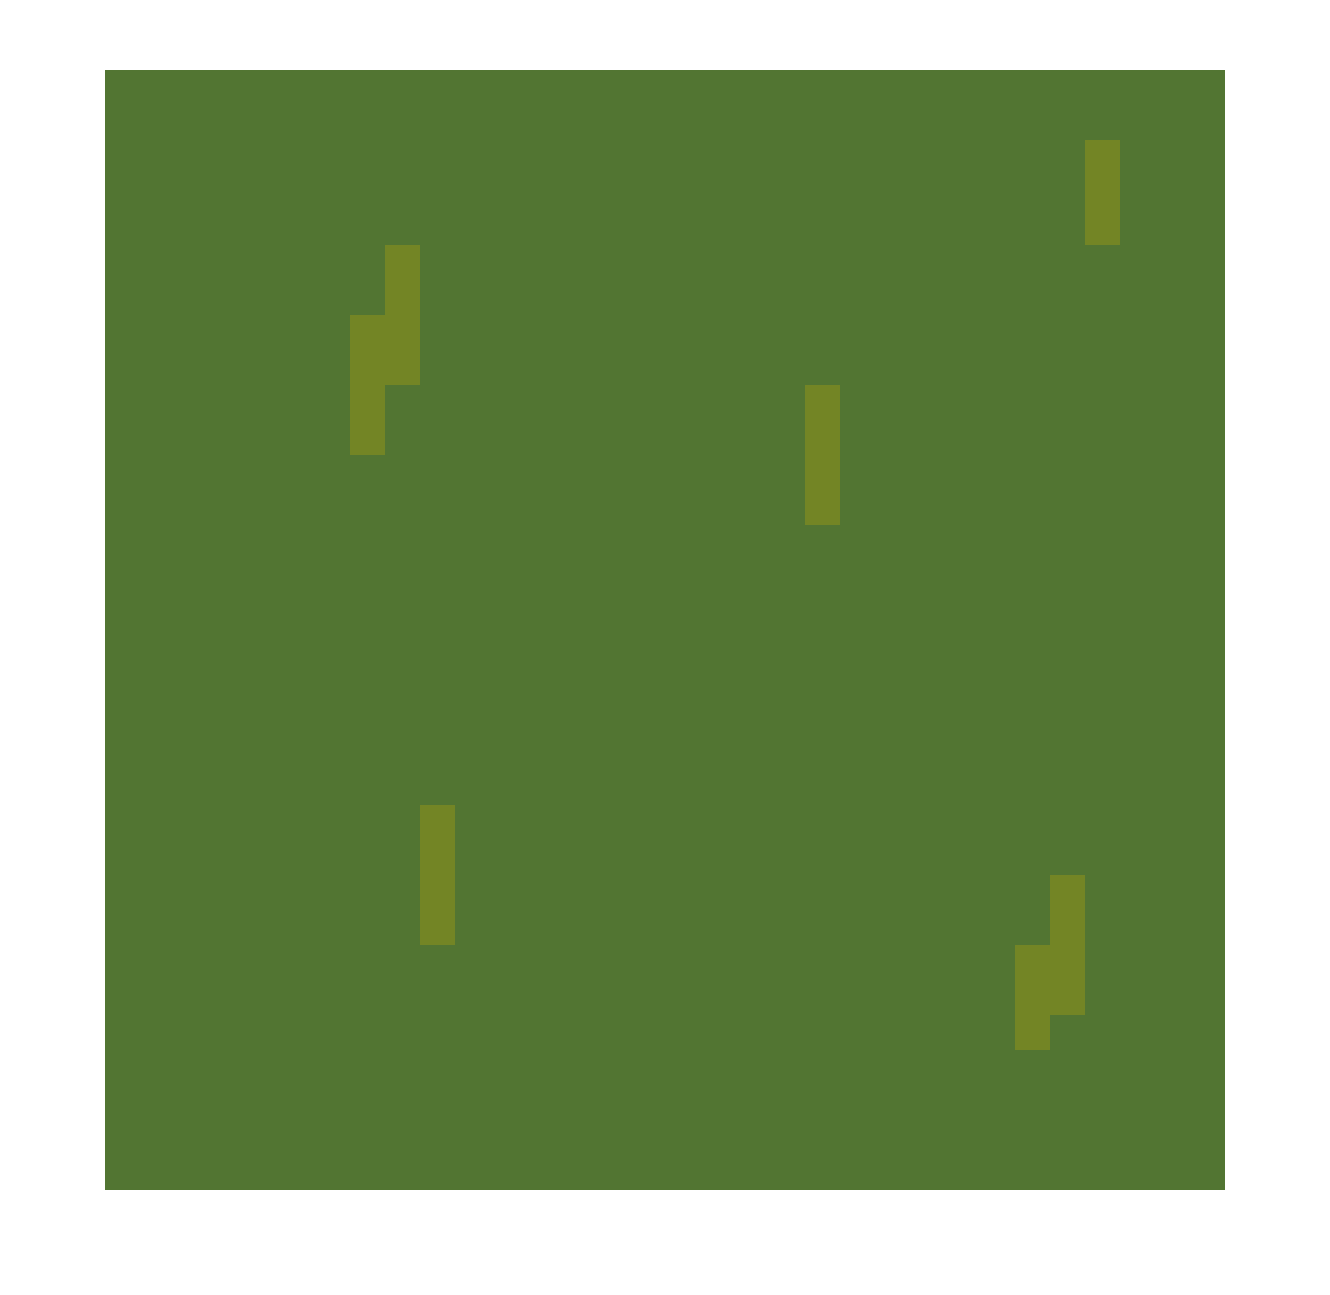
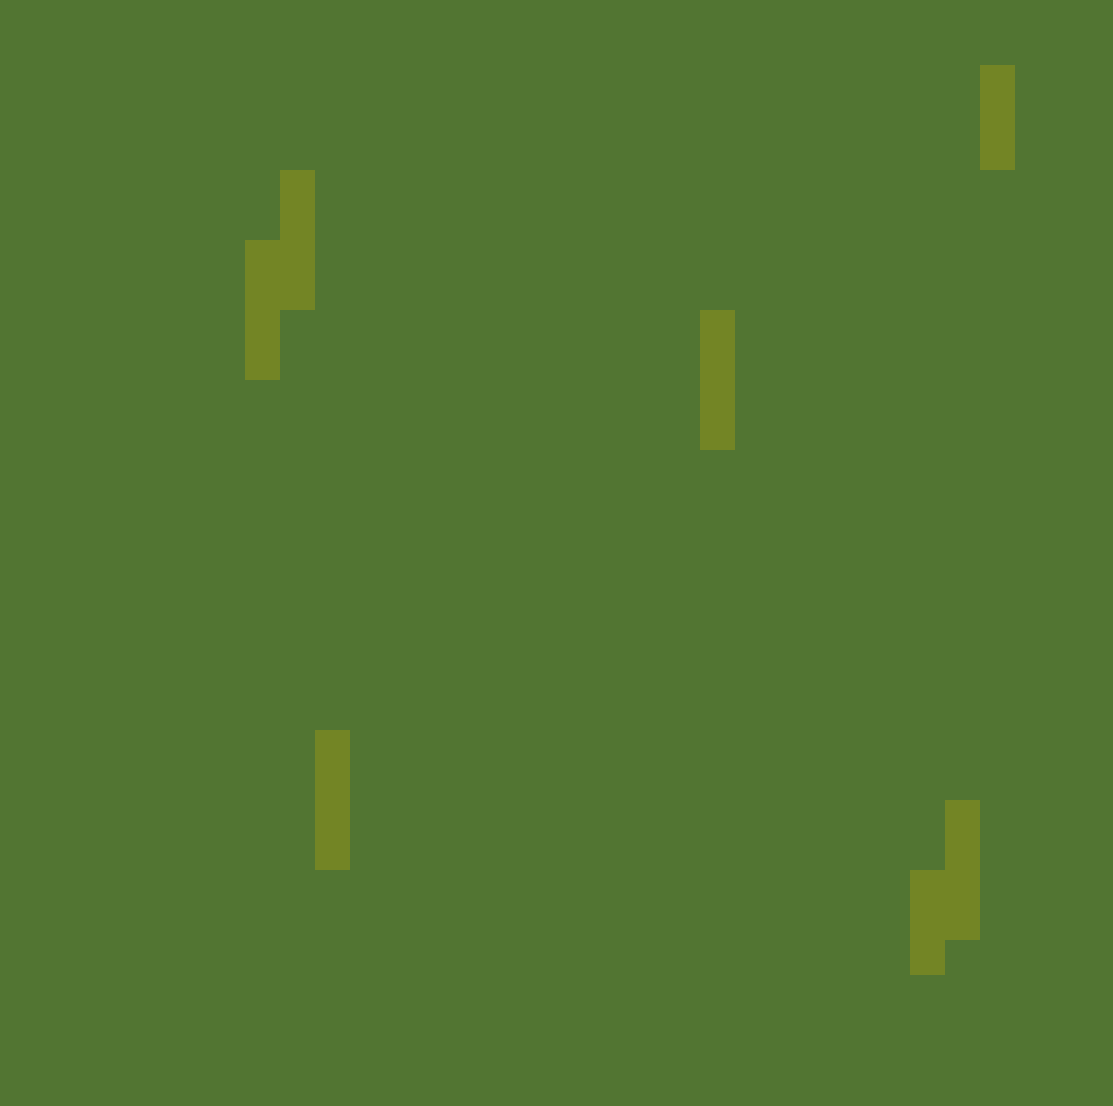
start to hook

diff --git a/game.c b/game.c
@@ -6,53 +6,102 @@
 /*   By: linhnguy <linhnguy@hive.student.fi>        +#+  +:+       +#+        */
 /*                                                +#+#+#+#+#+   +#+           */
 /*   Created: 2024/02/27 15:40:22 by linhnguy          #+#    #+#             */
-/*   Updated: 2024/02/27 15:47:16 by linhnguy         ###   ########.fr       */
+/*   Updated: 2024/03/02 16:47:15 by linhnguy         ###   ########.fr       */
 /*                                                                            */
 /* ************************************************************************** */
 
 #include "so_long.h"
 
-// Print the window width and height.
-static void ft_hook(void* param)
-{
-	const mlx_t* mlx = param;
+// static void ft_hook(void* param)
+// {
+// 	const mlx_t* mlx = param;
 
-	printf("WIDTH: %d | HEIGHT: %d\n", mlx->width, mlx->height);
-}
+// 	printf("WIDTH: %d | HEIGHT: %d\n", mlx->width, mlx->height);
+// }
 
 	static void ft_error(void)
 {
 	fprintf(stderr, "%s", mlx_strerror(mlx_errno));
 	exit(EXIT_FAILURE);
 }
-bool open_game(char **map)
+
+void put_image(mlx_t *mlx, t_images data, char **map)
 {
+	int i;
+	int	j;
+	
+	i = 0;
+	mlx_image_to_window(mlx, data.grass, 0, 0);
+	while (map[i])
+	{
+		j = 0;
+		while (map[i][j])
+		{
+			if (map[i][j] == '1')
+				mlx_image_to_window(mlx, data.tree, j * WIDTH, i * HEIGHT);
+			else if (map[i][j] == 'P')
+				mlx_image_to_window(mlx, data.slime, j * WIDTH, i * HEIGHT);
+			else if (map[i][j] == 'C')
+				mlx_image_to_window(mlx, data.potion, j * WIDTH, i * HEIGHT);
+			else if (map[i][j] == 'E')
+				mlx_image_to_window(mlx, data.exit, j * WIDTH, i * HEIGHT);
+			j++;
+		}
+		i++;
+	}
+}
+
+void my_keyhook(mlx_key_data_t keydata, void* param)
+{
+	if (!param)
+		printf("false/n");
+	if (keydata.key == MLX_KEY_W && keydata.action == MLX_PRESS)
+		printf("Move up\n");
+	if (keydata.key == MLX_KEY_A && keydata.action == MLX_RELEASE)
+		printf("Move left\n");
+	if (keydata.key == MLX_KEY_D && keydata.action == MLX_REPEAT)
+		printf("Move right\n");
+	if (keydata.key == MLX_KEY_S && keydata.action == MLX_REPEAT)
+		printf("Move down\n");
+}
+
+// mlx_keyfunc assign_keys(mlx_key_data_t keydata, void *param)
+// {
+// 	t_data	*data;
+
+// 	data = (t_data *)param;
+// }
+void make_images(mlx_t *mlx, char **map)
+{
+	t_images	data;
+	data.grass1 = mlx_load_png("./assets/grass.png");
+	data.slime1 = mlx_load_png("./assets/blue_slime_big.png");
+	data.potion1 = mlx_load_png("./assets/red_potion.png");
+	data.tree1 = mlx_load_png("./assets/Tree2.png");
+	data.exit1 = mlx_load_png("./assets/exit.png");
+	data.grass = mlx_texture_to_image(mlx, data.grass1);
+	data.slime = mlx_texture_to_image(mlx, data.slime1);
+	data.potion = mlx_texture_to_image(mlx, data.potion1);
+	data.exit = mlx_texture_to_image(mlx, data.exit1);
+	data.tree = mlx_texture_to_image(mlx, data.tree1);
+	mlx_resize_image(data.grass, WIDTH * (float)ft_strlen(map[0]), HEIGHT * (float)array_len (map));
+	mlx_resize_image(data.slime, WIDTH * .7, HEIGHT * .7);
+	mlx_resize_image(data.potion, WIDTH * .6, HEIGHT * .6);
+	mlx_resize_image(data.tree, WIDTH * .9, HEIGHT * .9);
+	mlx_resize_image(data.exit, WIDTH, HEIGHT);
+	put_image(mlx, data, map);
+}
+
+bool open_game(char **map)
+{	
+	
 	mlx_set_setting(MLX_STRETCH_IMAGE, true);
-	mlx_t* mlx = mlx_init(WIDTH, HEIGHT, "Slime Adventure", true);
+	mlx_t* mlx = mlx_init(WIDTH * (float)ft_strlen(map[0]), HEIGHT * (float)array_len (map), "Slime Adventure", true);
 	if (!mlx)
 		ft_error();
-
-	mlx_texture_t *grass1 = mlx_load_png("./assets/grass.png");
-	mlx_texture_t *slime1 = mlx_load_png("./assets/blue_slime_big.png");
-	mlx_texture_t *potion1 = mlx_load_png("./assets/red_potion.png");
-	mlx_image_t *grass = mlx_texture_to_image(mlx, grass1);
-	mlx_image_t *slime = mlx_texture_to_image(mlx, slime1);
-	mlx_image_t *potion = mlx_texture_to_image(mlx, potion1);
-	mlx_resize_image(grass, WIDTH / ft_strlen(map[0]), HEIGHT / array_len(map));
-	int i = 0;
-	while (i <= mlx->width)
-	{
-	mlx_image_to_window(mlx, grass, i, 0);
-	mlx_image_to_window(mlx, grass, 0, 0);
-	i += 25;
-	}
-	mlx_image_to_window(mlx, slime, 0, 0);
-	mlx_image_to_window(mlx, potion, 0, 0);
-	mlx_put_pixel(grass, 0, 0, 0xFF0000FF);
-
-	// Register a hook and pass mlx as an optional param.
-	// NOTE: Do this before calling mlx_loop!
-	mlx_loop_hook(mlx, ft_hook, mlx);
+	make_images(mlx, map);
+	// mlx_key_hook(mlx_t* mlx, mlx_keyfunc func, void* param)
+	mlx_key_hook(mlx, &my_keyhook, mlx_cursor_hook);
 	mlx_loop(mlx);
 	mlx_terminate(mlx);
 	return (EXIT_SUCCESS);

diff --git a/so_long.c b/so_long.c
@@ -6,7 +6,7 @@
 /*   By: linhnguy <linhnguy@hive.student.fi>        +#+  +:+       +#+        */
 /*                                                +#+#+#+#+#+   +#+           */
 /*   Created: 2024/02/18 15:51:15 by linhnguy          #+#    #+#             */
-/*   Updated: 2024/02/27 15:43:35 by linhnguy         ###   ########.fr       */
+/*   Updated: 2024/03/02 17:16:57 by linhnguy         ###   ########.fr       */
 /*                                                                            */
 /* ************************************************************************** */
 
@@ -21,7 +21,7 @@ int array_len(char **a)
 	{
 		i++;
 	}
-	return(i - 1);
+	return(i);
 }
 
 void free_array(char **array)
@@ -34,15 +34,15 @@ void free_array(char **array)
 	free(array);
 }
 
-void floodfill(char **copy, t_coor *cur)
+void floodfill(char **copy, t_flood *cur)
 {
 	if(copy[cur->cur_y][cur->cur_x] == 'F' || copy[cur->cur_y][cur->cur_x] == '1' )
 		return ;
 	copy[cur->cur_y][cur->cur_x] = 'F';
-	floodfill(copy, &(t_coor){cur->cur_x - 1, cur->cur_y});
-	floodfill(copy, &(t_coor){cur->cur_x + 1, cur->cur_y});
-	floodfill(copy, &(t_coor){cur->cur_x, cur->cur_y - 1});
-	floodfill(copy, &(t_coor){cur->cur_x, cur->cur_y + 1});
+	floodfill(copy, &(t_flood){cur->cur_x - 1, cur->cur_y});
+	floodfill(copy, &(t_flood){cur->cur_x + 1, cur->cur_y});
+	floodfill(copy, &(t_flood){cur->cur_x, cur->cur_y - 1});
+	floodfill(copy, &(t_flood){cur->cur_x, cur->cur_y + 1});
 }
 
 char **copy_array(char **a)
@@ -65,14 +65,14 @@ char **copy_array(char **a)
 	return(b);
 }
 
-t_coor *coordinates(char **a, char object)
+t_flood *coordinates(char **a, char object)
 {
 	int		i;
 	int		j;
-	t_coor *coor;
+	t_flood *coor;
 
 	i = 0;
-	coor = ft_calloc(1 , sizeof(t_coor));
+	coor = ft_calloc(1 , sizeof(t_flood));
 	while (a[i])
 	{
 		j = 0;
@@ -89,6 +89,7 @@ t_coor *coordinates(char **a, char object)
 	}
 	return (coor);
 }
+
 bool check_fill(char **map)
 {
 	int i;
@@ -111,7 +112,7 @@ bool check_fill(char **map)
 
 bool winnable(char **a)
 {
-	t_coor		*player;
+	t_flood		*player;
 	char		object;
 	char		**copy;
 	bool		check;
@@ -121,6 +122,7 @@ bool winnable(char **a)
 	copy = copy_array(a);
 	if (!copy)
 		return (false);
+	
 	floodfill(copy, player);
 	check = check_fill(copy);
 	if (!check)
@@ -205,7 +207,7 @@ bool walls(char **a)
 
 	str_len = ft_strlen(a[0]);
 	i = 0;
-	len_array = array_len(a);
+	len_array = array_len(a) - 1;
 	while(a[0][i])
 	{
 		if (a[0][i] !=  '1' || a[len_array][i] != '1')
@@ -293,20 +295,29 @@ char **get_map(int fd)
 		return (NULL);
 	return(array);
 }
+int open_file(char *v)
+{
+	int 	fd;
 
+	fd = 0;
+	fd = open(v, O_RDONLY);
+	if(fd == -1)
+	{
+		close(fd);
+		return(write(2, "ERROR\nSomething wrong with the file...", 38));
+	}
+	return (fd);
+}
 
 int main (int c, char **v)
 {
-	int 	fd = 0;
+	int 	fd;
 	char	**map;
+
+	fd = 0;
 	if (c == 2)
 	{
-		fd = open(v[1], O_RDONLY);
-			if(fd == -1)
-			{
-				close(fd);
-				return(write(2, "ERROR\nSomething wrong with the file...", 38));
-			}
+		fd = open_file(v[1]);
 		map = get_map(fd);
 		if (map == NULL)
 			return(write(2, "Error\n", 6));

diff --git a/so_long.h b/so_long.h
@@ -6,7 +6,7 @@
 /*   By: linhnguy <linhnguy@hive.student.fi>        +#+  +:+       +#+        */
 /*                                                +#+#+#+#+#+   +#+           */
 /*   Created: 2024/02/18 15:53:41 by linhnguy          #+#    #+#             */
-/*   Updated: 2024/02/27 15:45:40 by linhnguy         ###   ########.fr       */
+/*   Updated: 2024/03/02 17:16:26 by linhnguy         ###   ########.fr       */
 /*                                                                            */
 /* ************************************************************************** */
 
@@ -19,8 +19,8 @@
 #include <stdbool.h>
 #include "libft/libft.h"
 #include "MLX42/include/MLX42/MLX42.h"
-#define WIDTH 500
-#define HEIGHT 500
+#define WIDTH 60
+#define HEIGHT 60
 
 typedef struct s_struct
 {
@@ -33,7 +33,29 @@ typedef struct s_coor
 {
 	int		cur_x;
 	int		cur_y;
-} t_coor;
+} t_flood;
+
+typedef struct s_map
+{
+    char    **map;
+    int     potion_count;
+    int     exit_x;
+    int     exit_y;
+} t_map;
+
+typedef struct s_images
+{
+    mlx_texture_t   *grass1;
+    mlx_texture_t   *slime1;
+    mlx_texture_t   *potion1;
+    mlx_texture_t   *tree1;
+    mlx_texture_t   *exit1;
+    mlx_image_t     *grass;
+    mlx_image_t     *slime;
+    mlx_image_t     *potion;
+    mlx_image_t     *tree;
+    mlx_image_t     *exit;
+} t_images;
 
 bool		open_game(char **map);
 int			array_len(char **a);
